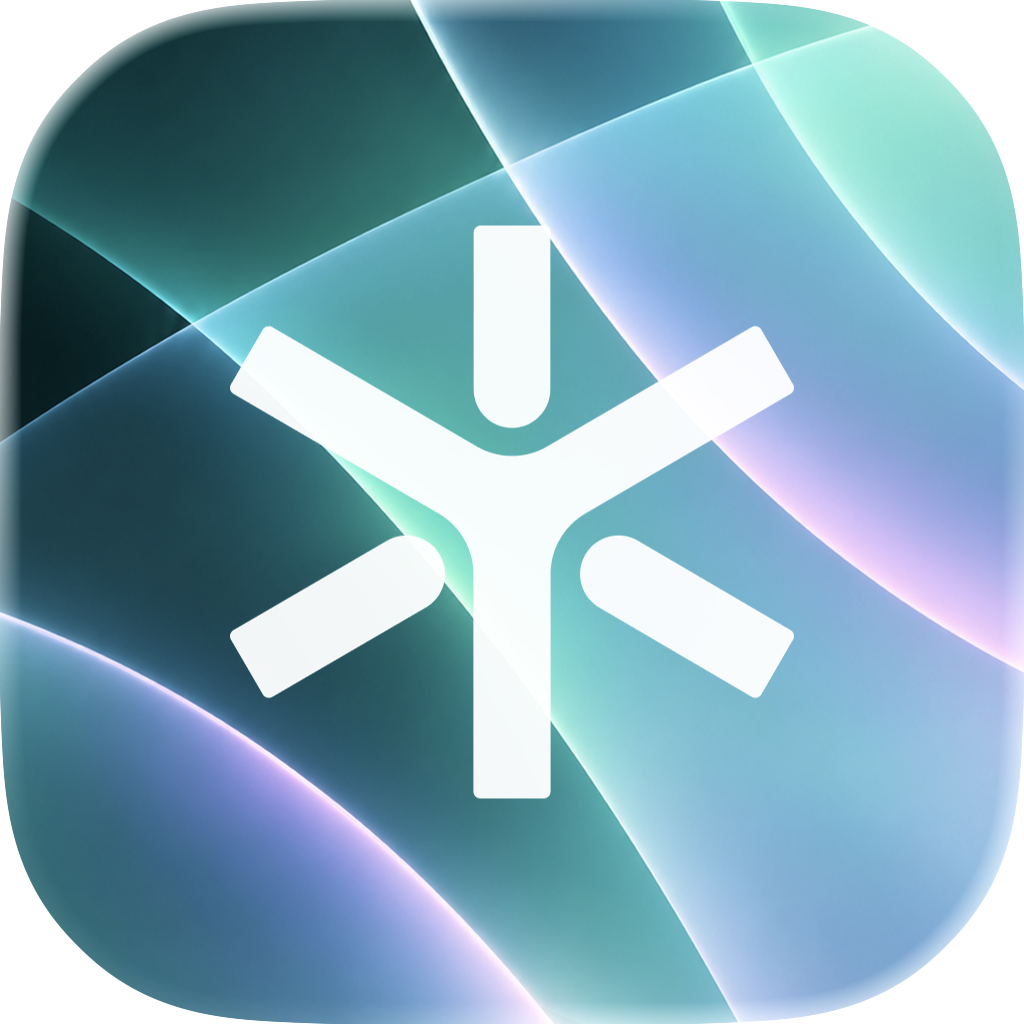
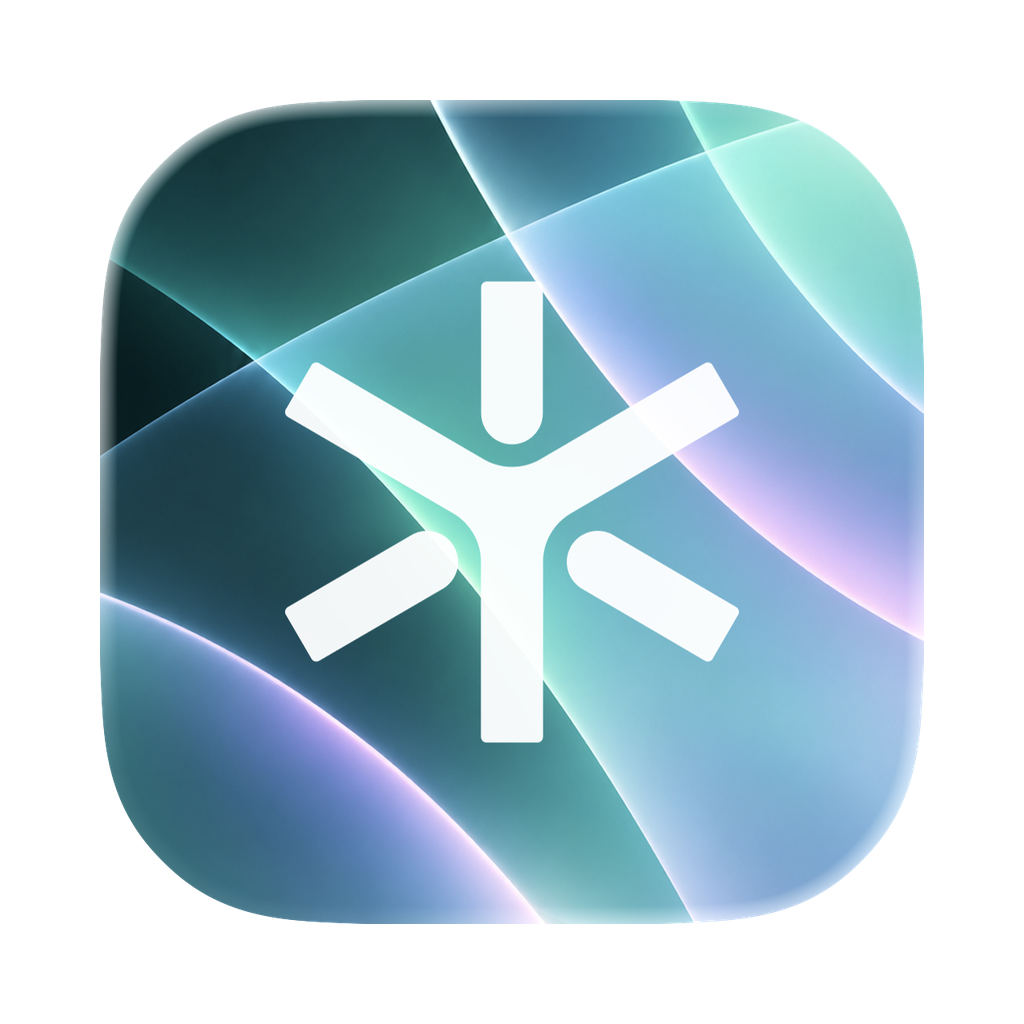
feat: rebrand Titanio as Titanio Browser

diff --git a/src/renderer/src/components/ui/GlassLogo.tsx b/src/renderer/src/components/ui/GlassLogo.tsx
@@ -1,0 +1,61 @@
+import { useId, type JSX } from 'react'
+import logo from '@renderer/assets/iso-white.svg'
+
+// GlassLogo de la web app, con los valores de su tema oscuro para estas superficies.
+// El filtro va en el padre: aplicado sobre la máscara recortaría el relieve.
+export function GlassLogo({ className = '' }: { className?: string }): JSX.Element {
+  const filterId = `glass-logo-${useId().replace(/:/g, '')}`
+
+  return (
+    <div aria-hidden="true" className={`relative size-11 shrink-0 ${className}`}>
+      <svg aria-hidden className="absolute size-0" focusable="false">
+        <defs>
+          <filter id={filterId}>
+            <feFlood floodColor="#000000" floodOpacity="0.24" result="bodyInk" />
+            <feComposite in="bodyInk" in2="SourceAlpha" operator="in" result="body" />
+
+            <feOffset in="SourceAlpha" dx="0" dy="1.5" result="offset" />
+            <feGaussianBlur in="offset" stdDeviation="1.5" result="blurred" />
+            <feComposite in="SourceAlpha" in2="blurred" operator="out" result="lip" />
+            <feFlood floodColor="#000000" floodOpacity="0.85" result="ink" />
+            <feComposite in="ink" in2="lip" operator="in" result="shadow" />
+
+            <feOffset in="SourceAlpha" dx="0" dy="-1.5" result="liftOffset" />
+            <feGaussianBlur in="liftOffset" stdDeviation="1.5" result="liftBlurred" />
+            <feComposite in="SourceAlpha" in2="liftBlurred" operator="out" result="liftLip" />
+            <feFlood floodColor="#ffffff" floodOpacity="0.1" result="liftInk" />
+            <feComposite in="liftInk" in2="liftLip" operator="in" result="highlight" />
+
+            <feMorphology in="SourceAlpha" operator="dilate" radius="1" result="grown" />
+            <feComposite in="grown" in2="SourceAlpha" operator="out" result="ring" />
+            <feFlood floodColor="#ffffff" floodOpacity="0" result="rimInk" />
+            <feComposite in="rimInk" in2="ring" operator="in" result="rim" />
+
+            <feMerge>
+              <feMergeNode in="rim" />
+              <feMergeNode in="body" />
+              <feMergeNode in="highlight" />
+              <feMergeNode in="shadow" />
+            </feMerge>
+          </filter>
+        </defs>
+      </svg>
+      <div className="size-full" style={{ filter: `url(#${filterId})` }}>
+        {/* El negro solo aporta el alfa; el filtro pinta el cuerpo y los bordes. */}
+        <div
+          className="size-full bg-black"
+          style={{
+            maskImage: `url(${JSON.stringify(logo)})`,
+            maskSize: 'contain',
+            maskRepeat: 'no-repeat',
+            maskPosition: 'center',
+            WebkitMaskImage: `url(${JSON.stringify(logo)})`,
+            WebkitMaskSize: 'contain',
+            WebkitMaskRepeat: 'no-repeat',
+            WebkitMaskPosition: 'center'
+          }}
+        />
+      </div>
+    </div>
+  )
+}

diff --git a/src/main/index.ts b/src/main/index.ts
@@ -98,9 +98,10 @@ const NO_VIBRANCY = process.env['MONPER_NO_VIBRANCY'] === '1'
 const APP_BG = '#111114' // igual que --color-bg en styles.css
 const isMac = process.platform === 'darwin'
 
-// Nombre de la app: debe fijarse ANTES de whenReady para que el menú de macOS
-// y el dock muestren "Titanio" en vez de "Electron" (dev incluido).
-app.setName('Titanio')
+// Nombre usado por Electron en los menús; el bundle de macOS se nombra al empaquetar.
+app.setName('Titanio Browser')
+// Conserva los perfiles existentes y la ruta que usa el puente MCP tras el cambio de nombre.
+app.setPath('userData', join(app.getPath('appData'), 'Titanio'))
 
 // FedCM (el "Continuar con Google" moderno) necesita UI a nivel navegador que Electron
 // NO implementa: sin esto el click no hace absolutamente nada. Al desactivarlo, Google
@@ -775,7 +776,7 @@ function crearVentana(opts: { sinPestanaInicial?: boolean; incognito?: boolean }
     // Control, en el menú Ventana y al compartir pantalla, donde antes ponía siempre
     // "Titanio": las pestañas son WebContentsView aparte, así que el título del chrome nunca
     // cambiaba solo.
-    win.setTitle(t?.title ? `${t.title} — Titanio` : 'Titanio')
+    win.setTitle(t?.title ? `${t.title} — Titanio Browser` : 'Titanio Browser')
     // El peek renderiza el mismo <Sidebar/> con el mismo preload: recibe el mismo estado.
     if (peekWin && !peekWin.isDestroyed()) peekWin.webContents.send('state:update', state)
     // La ventana de extensiones detecta si estás en una página de la Store.
@@ -1108,7 +1109,7 @@ function crearVentana(opts: { sinPestanaInicial?: boolean; incognito?: boolean }
           action: 'allow',
           overrideBrowserWindowOptions: {
             width: 500, height: 640, resizable: true, minimizable: true, maximizable: false,
-            fullscreenable: false, autoHideMenuBar: true, title: 'Titanio',
+            fullscreenable: false, autoHideMenuBar: true, title: 'Titanio Browser',
             // El popup hereda la sesión de quien lo abrió: un OAuth lanzado desde incógnito
             // que cayera en la sesión normal iniciaría sesión de verdad, justo lo contrario.
             webPreferences: { partition: suya().particion, contextIsolation: true, sandbox: true }

diff --git a/src/renderer/src/components/ui/TitanioMark.tsx b/src/renderer/src/components/ui/TitanioMark.tsx
@@ -1,12 +1,12 @@
 import type { JSX } from 'react'
-import logo from '@renderer/assets/titanio.png'
+import logo from '@renderer/assets/iso-white.svg'
 
 /**
  * El iso de Titanio, recolorable.
  *
- * El PNG es blanco sobre transparente, y el topbar se pinta con el color REAL de la página:
+ * El SVG es blanco sobre transparente, y el topbar se pinta con el color REAL de la página:
  * sobre un sitio de fondo claro el iso desaparecía. Un `<img>` no se puede recolorear, así
- * que se usa el **alfa del PNG como máscara** y se rellena con `currentColor`.
+ * que se usa el **alfa del SVG como máscara** y se rellena con `currentColor`.
  *
  * Por eso no lleva color propio: hereda el del texto de al lado. Y como `.on-light` redefine
  * los tokens del tema (ver styles.css), en una página clara se vuelve oscuro **solo**, sin
@@ -18,8 +18,8 @@ export default function TitanioMark({ className = '' }: { className?: string }):
       aria-hidden
       className={`titanio-mark inline-block shrink-0 bg-current ${className}`}
       style={{
-        maskImage: `url(${logo})`,
-        WebkitMaskImage: `url(${logo})`,
+        maskImage: `url(${JSON.stringify(logo)})`,
+        WebkitMaskImage: `url(${JSON.stringify(logo)})`,
         maskSize: 'contain',
         WebkitMaskSize: 'contain',
         maskRepeat: 'no-repeat',

diff --git a/src/renderer/src/components/browser/Topbar.tsx b/src/renderer/src/components/browser/Topbar.tsx
@@ -9,7 +9,6 @@ import IconVolumeOff from '~icons/tabler/volume-off'
 import IconVolume from '~icons/tabler/volume'
 import IconDownload from '~icons/tabler/download'
 import IconPuzzle from '~icons/tabler/puzzle'
-import TitanioMark from '@renderer/components/ui/TitanioMark'
 
 interface Props {
   active: ActiveInfo | null
@@ -52,7 +51,8 @@ export default function Topbar({ active, collapsed, mac, chatOpen, editRequest, 
       className={
         // `border-border` es casi transparente y se da la vuelta solo en páginas claras
         // (0.06 blanco / 0.14 negro), así que la línea se ve en las dos sin un selector aparte.
-        'relative h-topbar flex items-center gap-2 px-3 border-b border-border ' +
+        'relative h-topbar flex items-center gap-2 px-3 ' +
+        (active?.internal ? '' : 'border-b border-border ') +
         'transition-[background] duration-150 [-webkit-app-region:drag] ' +
         (onLight ? 'on-light ' : '') +
         (collapsed && mac ? 'pl-20.5' : '')
@@ -126,7 +126,6 @@ export default function Topbar({ active, collapsed, mac, chatOpen, editRequest, 
           }
         >
           {/* Hereda el color del botón: en una página clara se vuelve oscuro solo. */}
-          <TitanioMark className="w-4 h-4" />
           Ask Titanio
         </button>
       </div>

diff --git a/src/renderer/src/components/browser/Sidebar.tsx b/src/renderer/src/components/browser/Sidebar.tsx
@@ -11,7 +11,7 @@ import IconFolderPlus from '~icons/tabler/folder-plus'
 import IconSpy from '~icons/tabler/spy'
 import { IconButton, SectionLabel } from '@renderer/components/ui'
 import { PlusIcon, SidebarIcon } from '@renderer/lib/icons'
-import titanioPng from '@renderer/assets/titanio.png' // el PNG a pelo: aquí el fondo es siempre oscuro
+import titanioLogo from '@renderer/assets/iso-white.svg' // aquí el fondo es siempre oscuro
 
 interface Props {
   state: BrowserState
@@ -287,7 +287,7 @@ export default function Sidebar({ state, profile, bookmarks, collapsed, onOpenBo
       {agentTabs.length > 0 && (
         <div className="shrink-0 mt-1">
           <div className="flex items-center gap-1.5 px-2 pb-1 text-[12px] font-medium text-text-faint [&>img]:w-3.5 [&>img]:h-3.5 [&>img]:opacity-80">
-            <img src={titanioPng} alt="" />
+            <img src={titanioLogo} alt="" />
             <span>Agent tabs</span>
           </div>
           <div className="flex flex-col gap-px pb-px max-h-[40vh] overflow-y-auto [&::-webkit-scrollbar]:w-0">

diff --git a/src/renderer/src/components/newtab/NewTabPage.tsx b/src/renderer/src/components/newtab/NewTabPage.tsx
@@ -2,7 +2,7 @@ import { useEffect, useState, type JSX } from 'react'
 import type { Suggestion } from '@shared/types'
 import IconSearch from '~icons/tabler/search'
 import { useAutocomplete, useInlineCompletion, SuggestionList } from '@renderer/components/omnibox'
-import logo from '@renderer/assets/titanio.png'
+import { GlassLogo } from '@renderer/components/ui/GlassLogo'
 import DefaultBrowserBanner from './DefaultBrowserBanner'
 import Widgets from './Widgets'
 
@@ -48,11 +48,7 @@ export default function NewTabPage(): JSX.Element {
 
   return (
     <div className="min-h-full page-backdrop text-text flex flex-col items-center pt-[13vh] px-6 select-none">
-      {/* Logo con glow sutil */}
-      <div className="relative mb-9">
-        <div className="absolute inset-0 blur-2xl bg-white/[0.06] rounded-full scale-125" />
-        <img src={logo} alt="Titanio" className="relative w-[68px] h-[68px] object-contain" />
-      </div>
+      <GlassLogo className="mb-9" />
 
       <DefaultBrowserBanner />
 

diff --git a/src/renderer/src/components/browser/TabRow.tsx b/src/renderer/src/components/browser/TabRow.tsx
@@ -3,7 +3,7 @@ import type { TabInfo } from '@shared/types'
 import { domainOf } from '@renderer/lib/dom'
 import { CloseIcon } from '@renderer/lib/icons'
 import IconVolumeOff from '~icons/tabler/volume-off'
-import titanioLogo from '@renderer/assets/titanio.png'
+import titanioLogo from '@renderer/assets/iso-white.svg'
 
 interface Props {
   tab: TabInfo
@@ -44,7 +44,7 @@ export default function TabRow({ tab, active, onSelect, onClose }: Props): JSX.E
     >
       {tab.internal || !tab.url ? (
         // Nuestras páginas llevan siempre el iso, nunca un favicon por defecto.
-        <img src={titanioLogo} alt="" className="w-[17px] h-[17px] shrink-0 object-contain opacity-80" />
+        <img src={titanioLogo} alt="" className="w-[17px] h-[17px] p-[2px] shrink-0 object-contain opacity-80" />
       ) : tab.loading ? (
         <div className="w-[13px] h-[13px] m-0.5 shrink-0 rounded-full border-[1.5px] border-text-faint border-t-text animate-spin" />
       ) : tab.favicon ? (

diff --git a/src/renderer/src/components/browser/Content.tsx b/src/renderer/src/components/browser/Content.tsx
@@ -1,5 +1,5 @@
 import { useEffect, useRef, type JSX, type ReactNode } from 'react'
-import titanioPng from '@renderer/assets/titanio.png' // el PNG a pelo: aquí el fondo es siempre oscuro
+import titanioLogo from '@renderer/assets/iso-white.svg' // aquí el fondo es siempre oscuro
 
 const { titanio } = window
 
@@ -74,7 +74,7 @@ export default function Content({ leftInset, rightInset, pageColor, controlling,
       {controlling && (
         <div className="absolute left-0 right-0 bottom-0 h-10 flex items-center justify-center gap-3 px-4 text-[12.5px] text-text-dim">
           <span className="flex items-center gap-2 [&>img]:w-4 [&>img]:h-4 [&>img]:opacity-80">
-            <img src={titanioPng} alt="" />
+            <img src={titanioLogo} alt="" />
             Titanio is controlling this tab
           </span>
           <button

diff --git a/src/renderer/src/components/chat/EmptyState.tsx b/src/renderer/src/components/chat/EmptyState.tsx
@@ -1,6 +1,6 @@
 import type { JSX } from 'react'
 import type { ChatContext } from '@shared/types'
-import logo from '@renderer/assets/titanio.png'
+import { GlassLogo } from '@renderer/components/ui/GlassLogo'
 
 const { titanio } = window
 
@@ -15,7 +15,7 @@ const { titanio } = window
 export default function EmptyState({ provider }: { provider: ChatContext['provider'] }): JSX.Element {
   return (
     <div className="h-full flex flex-col items-center justify-center text-center px-6 gap-4">
-      <img src={logo} alt="Titanio" className="w-16 h-16 object-contain" />
+      <GlassLogo />
 
       {provider ? (
         <p className="text-[13.5px] text-text-dim leading-relaxed">

diff --git a/src/renderer/src/components/browser/UrlBar.tsx b/src/renderer/src/components/browser/UrlBar.tsx
@@ -108,7 +108,7 @@ export default function UrlBar({ active, editRequest, onGo }: Props): JSX.Elemen
             }}
             className="flex items-center gap-1.5 shrink-0 h-[30px] pl-2 pr-3 rounded-full text-[13px] font-medium text-text bg-bg-elev hover:bg-bg-hover transition-colors whitespace-nowrap tracking-[-0.08px]"
           >
-            {interna && <TitanioMark className="w-[15px] h-[15px]" />}
+            {interna && <TitanioMark className="w-[12px] h-[12px]" />}
             <span className={interna ? '' : 'pl-1'}>{domain}</span>
           </button>
           {/* Título → abre el input */}

diff --git a/src/renderer/src/components/settings/SkillsSection.tsx b/src/renderer/src/components/settings/SkillsSection.tsx
@@ -8,7 +8,7 @@ import IconPencil from '~icons/tabler/pencil'
 import IconChevron from '~icons/tabler/chevron-down'
 import IconFileText from '~icons/tabler/file-text'
 import IconDots from '~icons/tabler/dots'
-import logo from '@renderer/assets/titanio.png'
+import logo from '@renderer/assets/iso-white.svg'
 import SkillIcon from './SkillIcon'
 import { MD_COMPONENTS } from './markdown'
 

diff --git a/src/renderer/src/siteinfo.tsx b/src/renderer/src/siteinfo.tsx
@@ -11,7 +11,7 @@ import IconBell from '~icons/tabler/bell'
 import IconClipboard from '~icons/tabler/clipboard'
 import IconTrash from '~icons/tabler/trash'
 import IconShield from '~icons/tabler/shield-check'
-import titanioLogo from '@renderer/assets/titanio.png'
+import titanioLogo from '@renderer/assets/iso-white.svg'
 import './styles.css'
 
 const si = window.siteinfo
